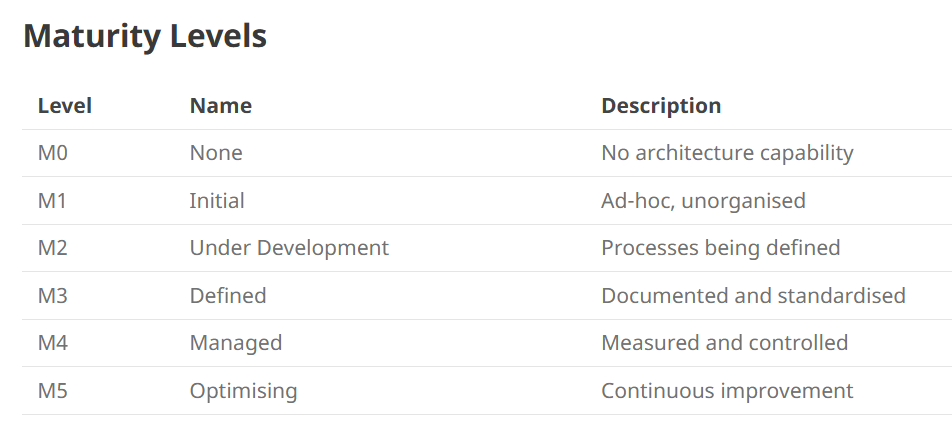
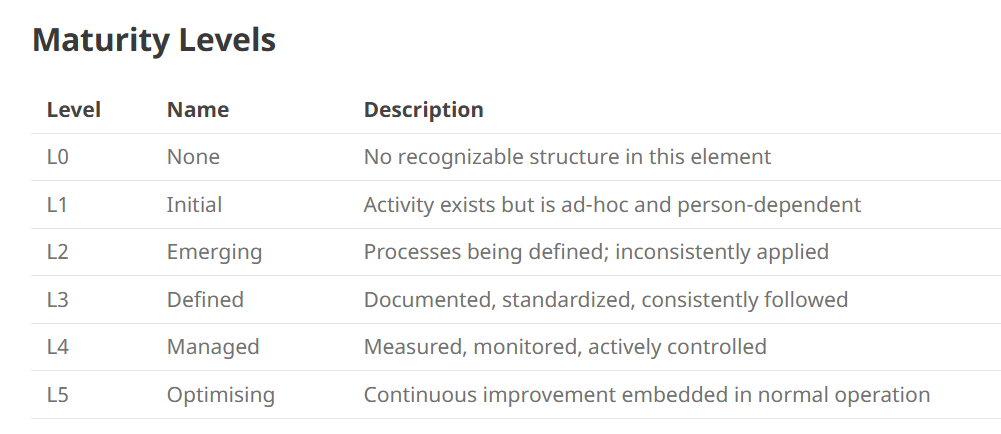
updated

diff --git a/internal/first_meeting.md b/internal/first_meeting.md
@@ -1,10 +1,10 @@
 ---
-The Structure
-- Core message — frames it as a knowledge problem, not a technology problem
-- The legacy insight — technology vs. knowledge, and how ICL decouples them
-- USP — three differentiators, ending with the EA AI ROI tagline
-- Client questions — to surface the pain and reframe their thinking
-- Handoff — bridge to the Boot Camp
+The Structure: document structure planned
+Core message: frames it as a knowledge problem, not a technology problem
+The legacy insight: technology vs. knowledge, and how ICL decouples them
+USP: three differentiators, ending with the EA AI ROI tagline
+Client questions: to surface the pain and reframe their thinking
+Handoff: bridge to the Boot Camp
 ---
 <div style="float: right; margin: 1em; text-align: center;">
 <img src="assets/icl_logo.png" width="64px" /><br/>
@@ -16,42 +16,65 @@ The Structure
 
 - [Meeting One: Talking Points](#meeting-one-talking-points)
   - [How is Enterprise Architecture profitable activity?](#how-is-enterprise-architecture-profitable-activity)
+    - [Enterprise Architecture is not marketing](#enterprise-architecture-is-not-marketing)
   - [Iron Core Labs Method in a nutshell](#iron-core-labs-method-in-a-nutshell)
-    - [The Entry is not Free](#the-entry-is-not-free)
-    - [ACMM](#acmm)
-  - [The Legacy Systems Insight](#the-legacy-systems-insight)
+      - [The Entry is not Free it is called ACMM](#the-entry-is-not-free-it-is-called-acmm)
+    - [**Architecture Capability Modeling**](#architecture-capability-modeling)
+    - [Structure of Enterprise Architecture Capable Organization](#structure-of-enterprise-architecture-capable-organization)
+  - [The Legacy Systems Insights](#the-legacy-systems-insights)
       - [The Core Message](#the-core-message)
-  - [The Unique Selling Point](#the-unique-selling-point)
+  - [The ICL Method Unique Selling Point](#the-icl-method-unique-selling-point)
   - [Questions for the Client](#questions-for-the-client)
   - [The Handoff](#the-handoff)
 
 
 # Meeting One: Talking Points
 
-This is the initial meeting with a prospective client. The conversation is **business-first**. Lead with value, not methodology.
+>[!NOTE]This is the initial meeting with a prospective client. The conversation is **business-first**. Lead with value, not methodology.
 
 ## How is Enterprise Architecture profitable activity?
 
 ![](first_meeting/EA_ROI.png)
 
+### Enterprise Architecture is not marketing
 
 ## Iron Core Labs Method in a nutshell
 
 ![](first_meeting/bpt-nutshell.png)
 
-### The Entry is not Free
+#### The Entry is not Free it is called ACMM
 
-### ACMM
+### **Architecture Capability Modeling**
 
-**Architecture Capability Modeling**
+> [!TIP] ACMM maps what architectural capabilities an organization actually has 
+> So business knows where to invest, where to stop guessing, and where AI can deliver real ROI.
+
+> [!TIP] ACMM unlocks the process. 
+> Levels 3–5 achieved, mean the organization has the repeatable discipline to actually run [ICL ADM](https://ea.ironcodelabs.com/kb/icl-adm/icl_adm.html) cycles that produce consistent, governed outcomes — not just one-off architecture documents that gather dust.
 
 ![alt text](first_meeting/cmm-levels.png)
 
-**Enterprise Architecture Capable Organization **
+### Structure of Enterprise Architecture Capable Organization
 
-![alt text](first_meeting/cmm-capable-organization.png)
+>[!IMPORTANT]
+> "Level 3" applies to the **whole organization** — not to an EA team, not to individual employees, not to a single department.
+>
+> The ICL CMM assesses maturity across five structural elements present in every organization: 
+> - Governance
+> - Skilled Resource Pool
+> - Projects/Portfolios
+> - Business Operations
+> - Architecture Repository. 
+> 
+> Each is scored independently. The organization's level is the lowest score across all five.
+>
+> What matters is that each of these five elements operates with defined, repeatable processes — so that when architecture work begins, the organizational structures needed to support it are already in place.
 
-## The Legacy Systems Insight
+![alt text](https://ea.ironcodelabs.com/kb/icl-cmm/togaf_cmm_icl_simplified.png)
+
+> This structure is operational only once the organization has reached **ICL CMM Level 3 across all five elements**. Below that threshold, one or more structural elements lack the repeatable processes needed to sustain it — introducing the structure earlier creates overhead without the discipline to make it work.
+
+## The Legacy Systems Insights
 
 #### The Core Message
 
@@ -76,9 +99,9 @@ The new system inherits the legacy knowledge. The old technology is replaced. No
 
 ---
 
-## The Unique Selling Point
+## The ICL Method Unique Selling Point
 
-Structured approach that from the start:
+Structured approach  from the start:
 
 1. **Separates legacy knowledge from legacy technology** — so the business keeps what it has built over years, while shedding what holds it back.
 2. **Uses Enterprise Architecture as a business tool, not an marketing tool** — architecture drives outcomes, not diagrams.
@@ -100,7 +123,7 @@ The pitch in one line:
 
 ## The Handoff
 
-If the conversation goes well, the next step is the **ICL CMM Boot Camp** — where we establish the architecture foundations needed to execute the programme.
+If the conversation goes well, the next step is the **ICL CMM Boot Camp** — where we assess the organization against the [ICL CMM](https://ea.ironcodelabs.com/kb/icl-cmm/icl-cmm.html) and establish the architecture foundations needed to execute the programme.
 
 > "We don't start with a big bang. We start with a shared baseline — so every decision from day one is traceable, governed, and defensible."
 
